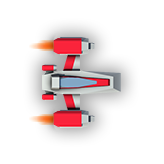
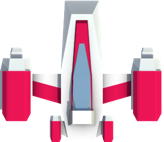
new graphics and lasers

diff --git a/server/systems/render_system.rb b/server/systems/render_system.rb
@@ -58,7 +58,7 @@ class RenderSystem
               # images[obj.image].draw base_x, base_y, ZOrder::Env
               obj_img = images[obj.image]
               if obj_img
-                sorted_by_y_x[base_y][base_x] << [obj_img, false, ZOrder::Env, 1]
+                sorted_by_y_x[base_y][base_x] << [obj_img, false, ZOrder::Env, 1, 1]
               else
                 puts "could not find object image for: #{obj.image}"
               end
@@ -71,27 +71,41 @@ class RenderSystem
           # images[sprited.image].draw pos.x, pos.y, pos.z
           img = images[sprited.image]
           if img
-            offset = sprited.offset
-            sorted_by_y_x[pos.y+offset.y][pos.x+offset.x] << [img,pos.rotation,pos.z,0.75]
+            offset = sprited.offset || vec(0,0)
+            scale = (sprited.scale.nil? || sprited.scale == 0) ? 0.75 : sprited.scale
+            x_scale = sprited.x_scale || scale
+            y_scale = sprited.y_scale || scale
+            sorted_by_y_x[pos.y+offset.y][pos.x+offset.x] << [img,pos.rotation,pos.z,x_scale, y_scale]
           else
             puts "could not find sprite image for: #{sprited.image}"
           end
         end
 
+        entity_manager.each_entity Textured, Position do |rec|
+          tex, pos = rec.components
+          img = images[tex.image]
+          if img
+            w = Gosu::Color::WHITE
+            img.draw_as_quad tex.x1, tex.y1, w, tex.x2, tex.y2, w, tex.x3, tex.y3, w, tex.x4, tex.y4, w, 19
+          else
+            puts "could not find texture image for: #{tex.image}"
+          end
+        end
+
+
         entity_manager.each_entity Decorated, Position do |rec|
           dec, pos = rec.components
           # images[sprited.image].draw pos.x, pos.y, pos.z
-          sorted_by_y_x[pos.y+dec.offset.y][pos.x+dec.offset.x] << [images[dec.image],false,pos.z+1, dec.scale]
+          sorted_by_y_x[pos.y+dec.offset.y][pos.x+dec.offset.x] << [images[dec.image],0,pos.z+1, dec.scale, dec.scale]
         end
 
 
         half_tile = RtsGame::TILE_SIZE/2
         sorted_by_y_x.keys.sort.each do |y|
           sorted_by_y_x[y].keys.sort.reverse.each do |x|
-            sorted_by_y_x[y][x].each do |(img,rot,z,sprite_scale)|
+            sorted_by_y_x[y][x].each do |(img,rot,z,sprite_x_scale,sprite_y_scale)|
               rot ||= 0
-              # x_scale = sprite_scale * (flipped ? 1 : -1)
-              img.draw_rot x+half_tile,y+half_tile,z,rot,0.5,0.5,sprite_scale,sprite_scale
+              img.draw_rot x+half_tile, y+half_tile, z, rot, 0.5, 0.5, sprite_x_scale, sprite_y_scale
             end
           end
         end

diff --git a/server/src/game.rb b/server/src/game.rb
@@ -56,19 +56,16 @@ class RtsGame
     tree4: 'assets/PNG/Default size/Tile/scifiTile_28.png',
     tree5: 'assets/PNG/Default size/Tile/scifiTile_29.png',
     tree6: 'assets/PNG/Default size/Tile/scifiTile_30.png',
-    # base0: 'assets/PNG/Retina/Structure/scifiStructure_11.png',
     base0: 'assets/PNG/Retina/Other/base_red.png',
-    # worker0: 'assets/PNG/Retina/Unit/scifiUnit_01.png',
-    worker0: 'assets/PNG/Retina/Other/scout_red.png',
-    # scout0: 'assets/PNG/Retina/Unit/scifiUnit_05.png',
+    worker0: 'assets/PNG/Retina/Other/worker_red.png',
     scout0: 'assets/PNG/Retina/Other/scout_red.png',
-    tank0: 'assets/PNG/Retina/Unit/scifiUnit_08.png',
-    # base1: 'assets/PNG/Retina/Structure/scifiStructure_06.png',
-    base1: 'assets/PNG/Retina/Other/base_red.png',
-    worker1: 'assets/PNG/Retina/Unit/scifiUnit_13.png',
-    # scout1: 'assets/PNG/Retina/Unit/scifiUnit_17.png',
-    scout1: 'assets/PNG/Retina/Other/scout_red.png',
-    tank1: 'assets/PNG/Retina/Unit/scifiUnit_20.png',
+    tank0: 'assets/PNG/Retina/Other/tank_red.png',
+    laser0: 'assets/PNG/Retina/Other/laser_red.png',
+    base1: 'assets/PNG/Retina/Other/base_green.png',
+    worker1: 'assets/PNG/Retina/Other/worker_green.png',
+    scout1: 'assets/PNG/Retina/Other/scout_green.png',
+    tank1: 'assets/PNG/Retina/Other/tank_green.png',
+    laser1: 'assets/PNG/Retina/Other/laser_green.png',
     small_res1: 'assets/PNG/Retina/Environment/scifiEnvironment_14.png',
     large_res1: 'assets/PNG/Retina/Environment/scifiEnvironment_15.png',
     explosion1: 'assets/PNG/Retina/Other/explosion1.png',

diff --git a/server/src/prefab.rb b/server/src/prefab.rb
@@ -1,4 +1,27 @@
  module Prefab
+  def self.laser(entity_manager:,pid:,x:,y:,x2:,y2:)
+    dx = x2-x
+    dy = y-y2
+    # dist = Math.sqrt(dx*dx+dy*dy)
+    # radians = Math.atan2(dy, dx)
+    # degs = radians * 180.0/Math::PI
+    # degs = degs + 360 if degs < 0
+
+    w = 2
+    off = RtsGame::TILE_SIZE/2
+    eid = entity_manager.add_entity(
+      Position.new(x:x+dx/2, y:y+dy/2, z:90),
+      Textured.new(image: "laser#{pid}".to_sym, 
+        x1: off+x-w, y1: off+y-w, 
+        x2: off+x+w, y2: off+y+w,
+        x3: off+x2-w, y3: off+y2-w, 
+        x4: off+x2+w, y4: off+y2+w)
+    )
+    timer_name = "death-laser-#{eid}"
+    entity_manager.add_component component: Timer.new(timer_name, 3000, false, DeathEvent), id: eid
+    eid
+  end
+
   def self.explosion(entity_manager:,x:,y:)
     timings = {
       explosion1: 39,
@@ -76,6 +99,7 @@
     unit_def = RtsGame::UNITS[type.to_sym]
     health = Health.new(points: unit_def[:hp], max: unit_def[:hp])
     tile_size = RtsGame::TILE_SIZE
+    scale = type.to_sym == :tank ? 0.6 : 0.3
     id = entity_manager.add_entity(
       Unit.new(type: type.to_sym),
       Position.new(x:x, y:y, tile_x: (x/tile_size).floor, tile_y: (y/tile_size).floor),
@@ -90,6 +114,7 @@
       PlayerOwned.new(id: player_id),
       Sprited.new(image: "#{type}#{player_id}".to_sym, 
         flipped: false, 
+        scale: scale,
         offset: vec(rand(-8..8),rand(-8..8))),
       Label.new(size: 14),
       health

diff --git a/server/systems/movement_system.rb b/server/systems/movement_system.rb
@@ -32,13 +32,13 @@ class MovementSystem
       pos.x += move.x
       pos.y += move.y
       if move.x > 0
-        pos.rotation = 0
-      elsif move.x < 0
-        pos.rotation = 180
-      elsif move.y < 0
-        pos.rotation = 270
-      elsif move.y > 0
         pos.rotation = 90
+      elsif move.x < 0
+        pos.rotation = 270
+      elsif move.y < 0
+        pos.rotation = 0
+      elsif move.y > 0
+        pos.rotation = 180
       end
 
       # semi arbitrarily set to 1/4 the distance a unit could travel in a simulation step

diff --git a/server/components/components.rb b/server/components/components.rb
@@ -26,7 +26,8 @@ def define_component(opts={})
   end
 end
 Base = define_component(attrs: [:resource])
-Sprited = define_component(attrs: [:image, :flipped, :offset, :scale])
+Sprited = define_component(attrs: [:image, :flipped, :offset, :scale, :x_scale, :y_scale])
+Textured = define_component(attrs: [:image, :x1, :y1, :x2, :y2, :x3, :y3, :x4, :y4])
 Animated = define_component(attrs: [:frames, :timings, :index, :loop, :time])
 Decorated = define_component(attrs: [:image, :scale, :offset])
 PlayerOwned = define_component(attrs: [:id])

diff --git a/server/systems/attack_system.rb b/server/systems/attack_system.rb
@@ -94,6 +94,8 @@ class AttackSystem
       ty = pos.tile_y+dy
       Prefab.explosion(entity_manager: entity_manager, x: tx*tile_size, y: ty*tile_size)
 
+      Prefab.laser(entity_manager: entity_manager, pid: player.id, x: pos.x, y: pos.y, x2: tx*tile_size, y2: ty*tile_size)
+
       tile_infos.values.each do |tile_info|
         TileInfoHelper.dirty_tile(tile_info, tx, ty)
       end

diff --git a/server/src/app.rb b/server/src/app.rb
@@ -55,6 +55,7 @@ class RtsWindow < Gosu::Window
         @game.start! 
       end
     end
+    super
   end
 
   def button_up(id)
